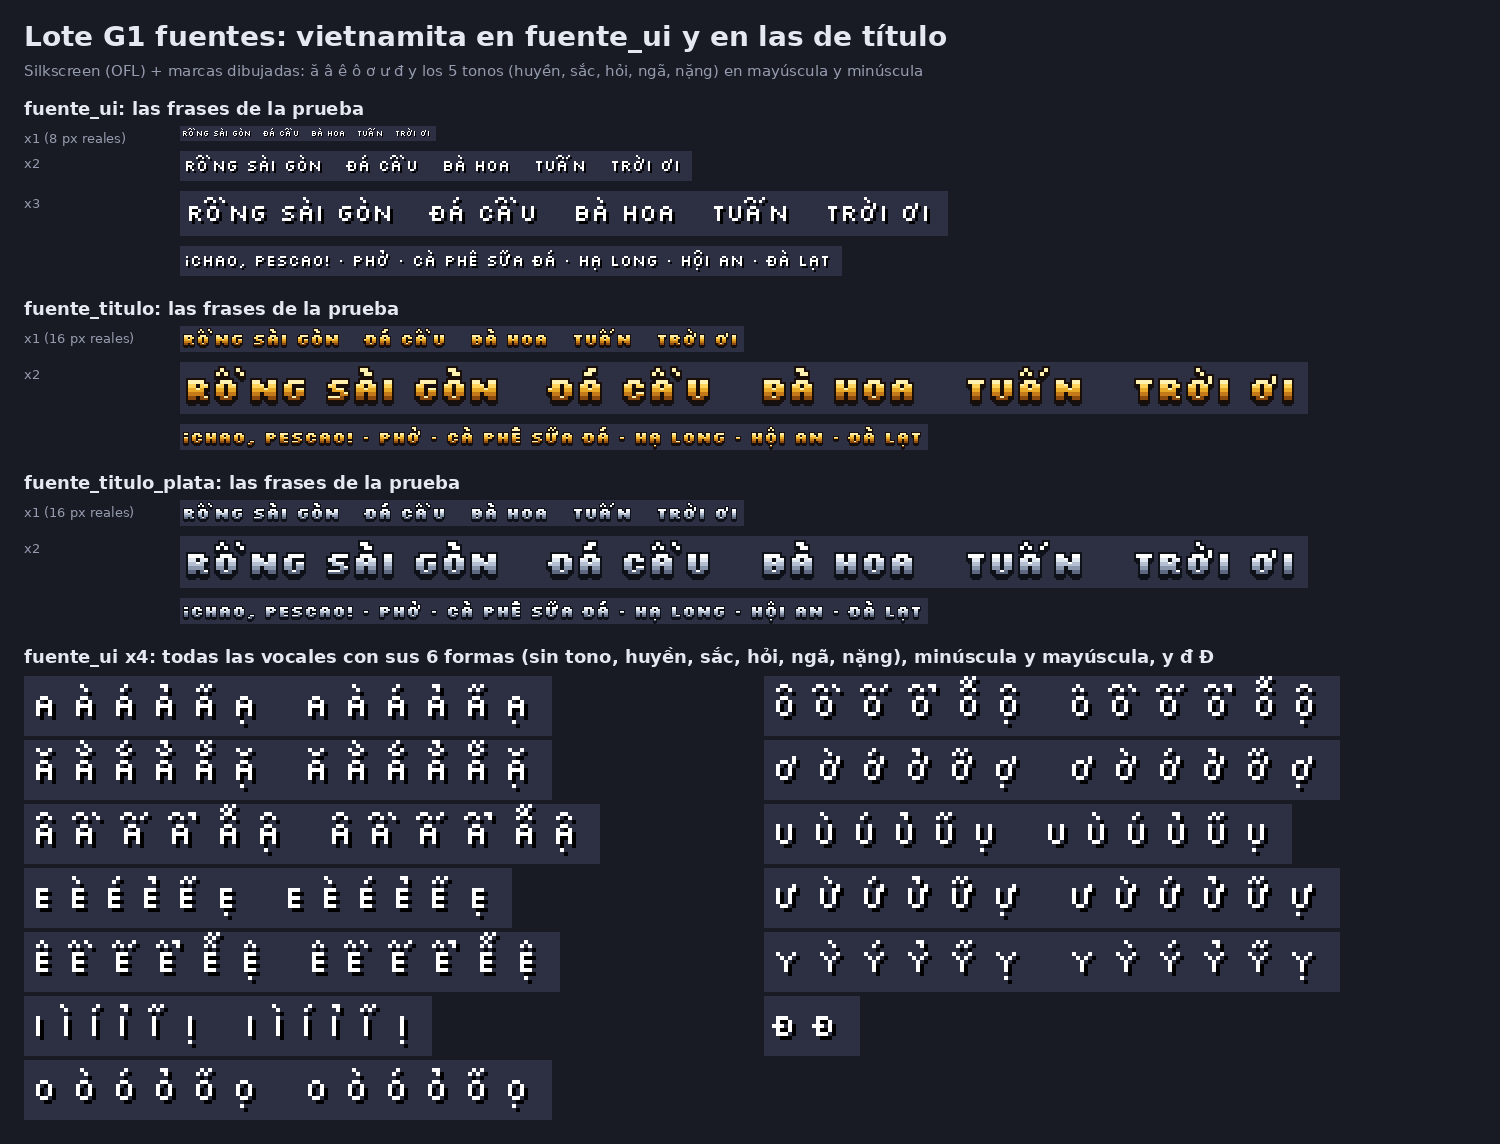
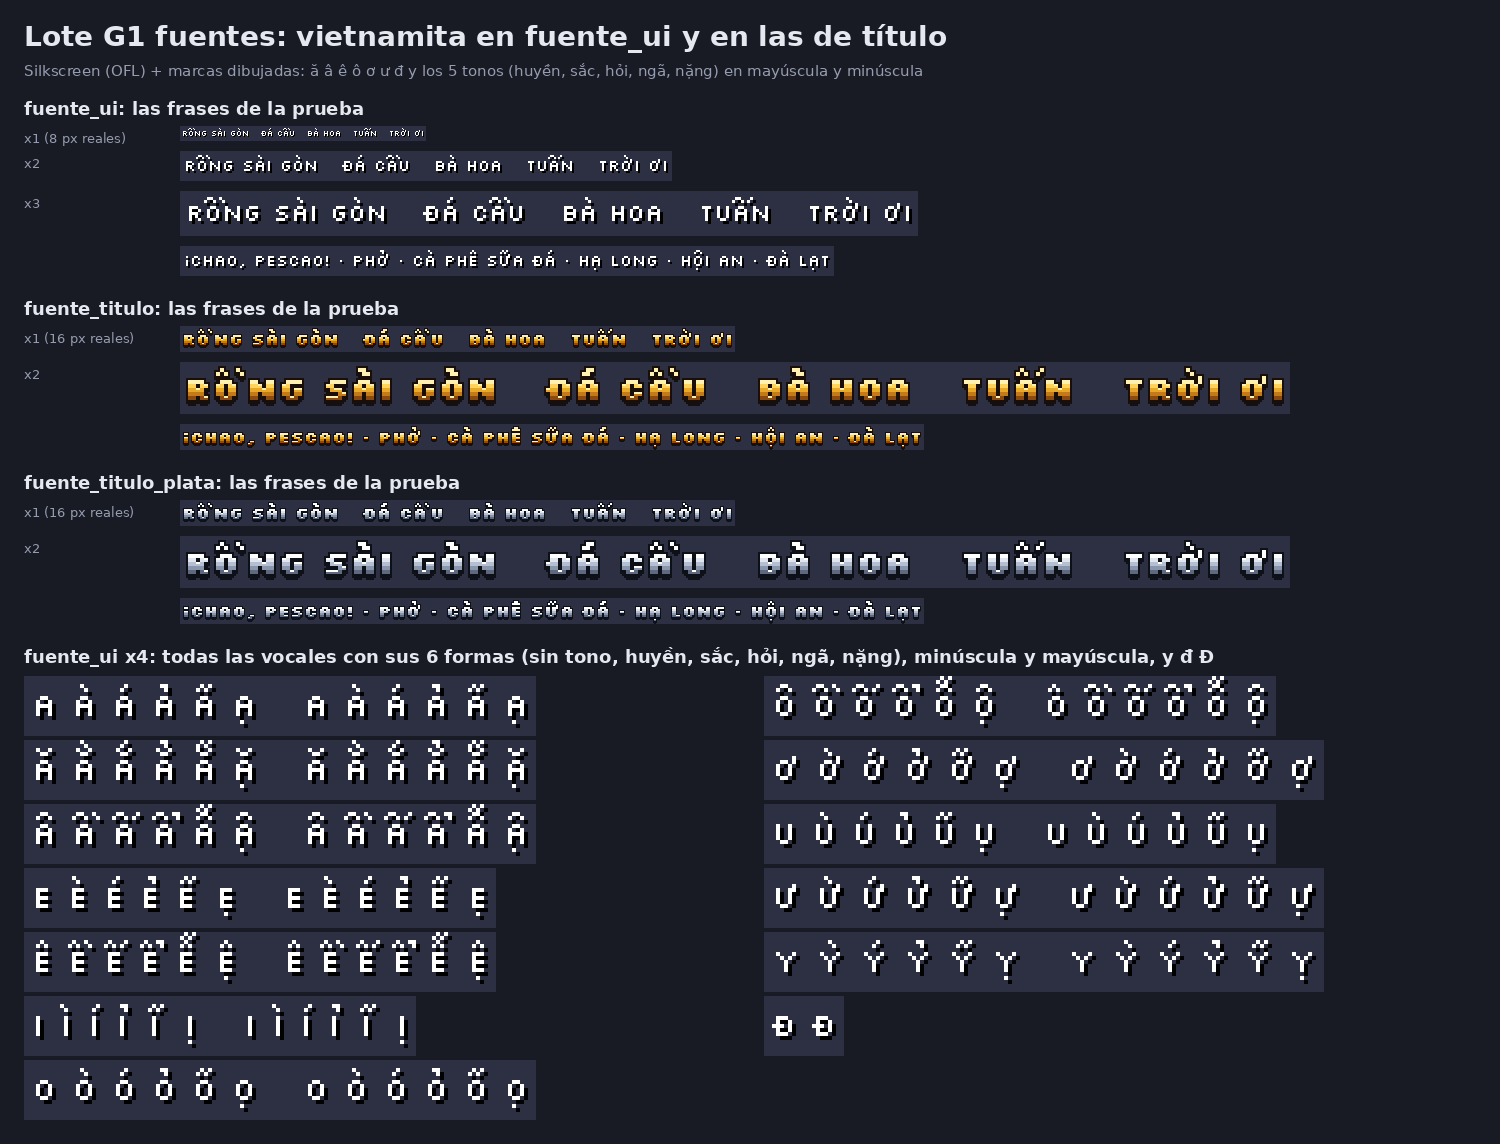
G1 fuentes: el tono al lado del circunflejo no ensancha la letra (se mete en la siguiente, kerning solo si choca)
Claude-Session: https://claude.ai/code/session_01JyeqgYaNCz4cU9RBqiqVkS

diff --git a/src/engine/ui/fonts.ts b/src/engine/ui/fonts.ts
@@ -65,7 +65,8 @@ function inside(polys: [number, number][][], x: number, y: number): boolean {
   return w !== 0;
 }
 
-interface Glyph { ch: string; mask: Uint8Array; w: number; h: number; top: number; left: number; adv: number }
+/** overhang: la letra se mete en las filas de marcas de la que sigue (el tono al lado del circunflejo) */
+interface Glyph { ch: string; mask: Uint8Array; w: number; h: number; top: number; left: number; adv: number; overhang?: boolean }
 
 // ---------- marcas del vietnamita, dibujadas en la grilla de la fuente ----------
 
@@ -129,9 +130,12 @@ function composeGlyph(ch: string, base: Glyph, marks: Mark[], px: number): Glyph
   const ox = (x0 - bx0) * px, oy = (top - by0) * px;
   for (let y = 0; y < base.h; y++) for (let x = 0; x < base.w; x++) if (base.mask[y * base.w + x]) mask[(y + oy) * w + x + ox] = 1;
   for (const [fx, fy] of pts) for (let yy = 0; yy < px; yy++) for (let xx = 0; xx < px; xx++) mask[((fy - by0) * px + yy) * w + (fx - bx0) * px + xx] = 1;
-  // lo que sale a la derecha corre el avance para no pisar la letra que sigue
-  const adv = Math.max(base.adv, (bx1 + 2) * px);
-  return { ch, mask, w, h, top: by0 * px, left: bx0 * px, adv };
+  // el tono al lado del circunflejo no ensancha la letra: se mete en las filas de marcas de la que sigue, que casi
+  // siempre están vacías (si la que sigue también lleva marca, el .fnt trae un kerning que las separa). Lo demás que
+  // sale a la derecha (el gancho de ơ, la tilde de una letra angosta) sí corre el avance
+  const beside = !!tone && tone !== 'tilde' && marks.includes('circumflex');
+  const adv = beside ? base.adv : Math.max(base.adv, (bx1 + 2) * px);
+  return { ch, mask, w, h, top: by0 * px, left: bx0 * px, adv, overhang: beside };
 }
 
 /** Rasteriza cada glifo a pixeles de fuente (1 pixel de fuente = `px` pixeles). Las letras que faltan se componen. */
@@ -161,6 +165,35 @@ function rasterGlyphs(font: Font, px: number, chars = ALL_FONT_CHARS): Glyph[] {
   return out;
 }
 
+/**
+ * Pares que necesitan separarse: para cada letra con overhang, cuánto hay que correr la siguiente para que lo pintado
+ * de las dos (con sombra o contorno) no se pise ni se toque de costado. Casi todas las letras no necesitan nada.
+ */
+function kernings(cells: { g: Glyph; r: Raster }[], pad: number, base: number): [string, string, number][] {
+  const out: [string, string, number][] = [];
+  const opaque = (r: Raster, x: number, y: number) => x >= 0 && y >= 0 && x < r.w && y < r.h && r.data[(y * r.w + x) * 4 + 3] > 0;
+  for (const a of cells) {
+    if (!a.g.overhang) continue;
+    const ax = a.g.left - pad, ay = base + a.g.top - pad;
+    for (const b of cells) {
+      const by = base + b.g.top - pad;
+      const hits = (k: number) => {
+        const bx = a.g.adv + k + b.g.left - pad;
+        for (let y = 0; y < b.r.h; y++) for (let x = 0; x < b.r.w; x++) {
+          if (!opaque(b.r, x, y)) continue;
+          const X = bx + x - ax, Y = by + y - ay;
+          if (opaque(a.r, X, Y) || opaque(a.r, X - 1, Y)) return true;
+        }
+        return false;
+      };
+      let k = 0;
+      while (hits(k) && k < 16) k++;
+      if (k) out.push([a.g.ch, b.g.ch, k]);
+    }
+  }
+  return out;
+}
+
 /** Arma el atlas y el .fnt. style decide cómo se pinta cada glifo (con margen para contorno y sombra). */
 function pack(name: string, glyphs: Glyph[], pad: number, paint: (g: Glyph) => Raster, lineHeight: number, base: number, face: string, size: number): BitmapFont {
   const cells = glyphs.map((g) => ({ g, r: paint(g) }));
@@ -174,13 +207,16 @@ function pack(name: string, glyphs: Glyph[], pad: number, paint: (g: Glyph) => R
   const png = createRaster(W, H);
   cells.forEach(({ r }, i) => { for (let yy = 0; yy < r.h; yy++) png.data.set(r.data.subarray(yy * r.w * 4, (yy + 1) * r.w * 4), ((pos[i].y + yy) * W + pos[i].x) * 4); });
   const chars = cells.map(({ g, r }, i) => `    <char id="${g.ch.codePointAt(0)}" x="${pos[i].x}" y="${pos[i].y}" width="${r.w}" height="${r.h}" xoffset="${g.left - pad}" yoffset="${base + g.top - pad}" xadvance="${g.adv}" page="0" chnl="15"/>`);
+  // kerning: una letra que se mete en la que sigue (overhang) se separa solo si de verdad la pisa o la toca
+  const kern = kernings(cells, pad, base);
+  const kernXml = kern.length ? [`  <kernings count="${kern.length}">`, ...kern.map(([a, b, n]) => `    <kerning first="${a.codePointAt(0)}" second="${b.codePointAt(0)}" amount="${n}"/>`), '  </kernings>'] : [];
   const fnt = [
     '<?xml version="1.0" encoding="UTF-8"?>',
     '<font>',
     `  <info face="${face}" size="${size}" bold="0" italic="0" charset="" unicode="1" stretchH="100" smooth="0" aa="1" padding="0,0,0,0" spacing="1,1"/>`,
     `  <common lineHeight="${lineHeight}" base="${base}" scaleW="${W}" scaleH="${H}" pages="1" packed="0"/>`,
     `  <pages><page id="0" file="${name}.png"/></pages>`,
-    `  <chars count="${chars.length}">`, ...chars, '  </chars>', '</font>', '',
+    `  <chars count="${chars.length}">`, ...chars, '  </chars>', ...kernXml, '</font>', '',
   ].join('\n');
   return { name, png, fnt, lineHeight, base };
 }
@@ -235,13 +271,24 @@ export function drawText(font: BitmapFont, text: string, scale = 1): Raster {
   const chars = new Map<number, { x: number; y: number; w: number; h: number; xo: number; yo: number; adv: number }>();
   for (const m of font.fnt.matchAll(/<char id="(\d+)" x="(\d+)" y="(\d+)" width="(\d+)" height="(\d+)" xoffset="(-?\d+)" yoffset="(-?\d+)" xadvance="(\d+)"/g))
     chars.set(+m[1], { x: +m[2], y: +m[3], w: +m[4], h: +m[5], xo: +m[6], yo: +m[7], adv: +m[8] });
-  let W = 4;
-  for (const ch of text) W += chars.get(ch.codePointAt(0)!)?.adv ?? 4;
-  const out = createRaster(W * scale + 4, (font.lineHeight + 4) * scale);
-  let cx = 2;
-  for (const ch of text) {
+  const kern = new Map<string, number>();
+  for (const m of font.fnt.matchAll(/<kerning first="(\d+)" second="(\d+)" amount="(-?\d+)"/g)) kern.set(`${m[1]},${m[2]}`, +m[3]);
+  const glyphs = [...text];
+  // cada letra corre lo que dice su avance más el kerning con la que sigue; el ancho incluye lo que sobresale
+  const xs: number[] = [];
+  let x = 2, W = 4;
+  glyphs.forEach((ch, i) => {
     const c = chars.get(ch.codePointAt(0)!);
-    if (!c) { cx += 4; continue; }
+    xs.push(x);
+    if (c) W = Math.max(W, x + c.xo + c.w + 2);
+    x += (c?.adv ?? 4) + (i + 1 < glyphs.length ? kern.get(`${ch.codePointAt(0)},${glyphs[i + 1].codePointAt(0)}`) ?? 0 : 0);
+  });
+  W = Math.max(W, x + 2);
+  const out = createRaster(W * scale, (font.lineHeight + 4) * scale);
+  for (const [i, ch] of glyphs.entries()) {
+    const cx = xs[i];
+    const c = chars.get(ch.codePointAt(0)!);
+    if (!c) continue;
     for (let y = 0; y < c.h; y++) for (let x = 0; x < c.w; x++) {
       const s = ((c.y + y) * font.png.w + c.x + x) * 4;
       if (!font.png.data[s + 3]) continue;
@@ -251,7 +298,6 @@ export function drawText(font: BitmapFont, text: string, scale = 1): Raster {
         out.data.set(font.png.data.subarray(s, s + 4), (Y * out.w + X) * 4);
       }
     }
-    cx += c.adv;
   }
   return out;
 }

diff --git a/src/engine/__tests__/fonts.test.ts b/src/engine/__tests__/fonts.test.ts
@@ -51,12 +51,28 @@ describe('fuentes con vietnamita (lote G1)', () => {
     }
   });
 
-  it('ninguna letra pisa a la siguiente: lo dibujado (con la sombra) termina antes del avance', () => {
+  it('el tono al lado del circunflejo no ensancha la letra, y ninguna letra pisa a la siguiente', () => {
+    const SIDE = 'ấầẩếềểốồổẤẦẨẾỀỂỐỒỔ';
+    const opaque = (r: { data: Uint8ClampedArray }) => { let n = 0; for (let i = 3; i < r.data.length; i += 4) if (r.data[i]) n++; return n; };
     for (const f of FONTS) {
+      const cs = charsOf(f);
+      // ấ avanza lo mismo que a: el tono se mete en las filas de marcas de la letra que sigue
+      for (const ch of SIDE) expect(cs.get(ch)!.adv, `${f.name} ${ch}`).toBe(cs.get(ch.normalize('NFD')[0])!.adv);
+      // el resto del vietnamita termina antes de su avance
       const pad = f.name === 'fuente_ui' ? 0 : 1, shadow = f.name === 'fuente_ui' ? 1 : 3;
-      for (const [ch, c] of charsOf(f)) if (VIETNAMESE_CHARS.includes(ch)) expect(c.xo + pad + c.w - shadow, `${f.name} ${ch}`).toBeLessThanOrEqual(c.adv);
+      for (const [ch, c] of cs) if (VIETNAMESE_CHARS.includes(ch) && !SIDE.includes(ch)) expect(c.xo + pad + c.w - shadow, `${f.name} ${ch}`).toBeLessThanOrEqual(c.adv);
+      // escritas juntas, con el kerning, ninguna pisa a la otra: lo pintado del par es la suma de lo pintado de cada una
+      const next = [...'ACUNGHIOT', ...'àáảãạâấầẩẫậăắằ', ...'ÊẾỀỂỄỆÔỐỒỔỖỘƠỚỜỞỠỢƯỨỪỬỮỰĐ'];
+      for (const a of SIDE) for (const b of next) {
+        expect(opaque(drawText(f, a + b)), `${f.name} ${a}${b}`).toBe(opaque(drawText(f, a)) + opaque(drawText(f, b)));
+      }
     }
-  });
+    // "CẦU" y "TUẤN" no tienen kerning (la U y la N no llevan marca); "ẤẤ" sí
+    const ui = FONTS[0];
+    const k = (a: string, b: string) => ui.fnt.includes(`<kerning first="${a.codePointAt(0)}" second="${b.codePointAt(0)}"`);
+    expect(k('Ầ', 'U') || k('ầ', 'u') || k('Ấ', 'N')).toBe(false);
+    expect(k('Ấ', 'Ấ')).toBe(true);
+  }, 120_000);
 
   it('la fuente de ui sigue nítida (solo pixeles enteros) y las frases de prueba no tienen letras de más', () => {
     const ui = FONTS[0];

diff --git a/docs/KIT_DEPORTES.md b/docs/KIT_DEPORTES.md
@@ -219,7 +219,7 @@ Las mismas fuentes bitmap del kit de GG Abyss, en formato BMFont XML (`this.load
 Traen ñ, tildes, ¡, ¿ y **todas las letras del vietnamita**: ă, â, ê, ô, ơ, ư, đ, Đ y los 5 tonos (huyền, sắc, hỏi, ngã, nặng) sobre todas las vocales, en mayúscula y minúscula. Silkscreen no las trae: el motor las arma pegando las marcas dibujadas sobre la letra base, con el mismo trazo que los acentos de la fuente.
 
 - Las marcas van en las 2 filas de arriba de la letra, con una fila de aire, como los acentos de siempre.
-- Con circunflejo, el tono va a su derecha (ấ, ầ, ẩ), como se escribe en vietnamita. La letra avanza 2 pixeles de fuente más.
+- Con circunflejo, el tono va a su derecha (ấ, ầ, ẩ), como se escribe en vietnamita, y **no ensancha la letra**: se mete sobre las filas de marcas de la letra que sigue, que casi siempre están vacías. Si la que sigue también lleva marca ("ẤẤ"), el `.fnt` trae un par de `kerning` que las separa lo justo. Phaser aplica el kerning solo.
 - La tilde sobre el circunflejo (ẫ) y cualquier tono sobre la breve (ắ, ằ, ẳ, ẵ, ặ) van encima, y suben 2 pixeles de fuente por arriba de la línea.
 - El nặng es un punto debajo. ơ y ư llevan un ganchito en el hombro derecho. đ y Đ, una barra que cruza el palo.
 
